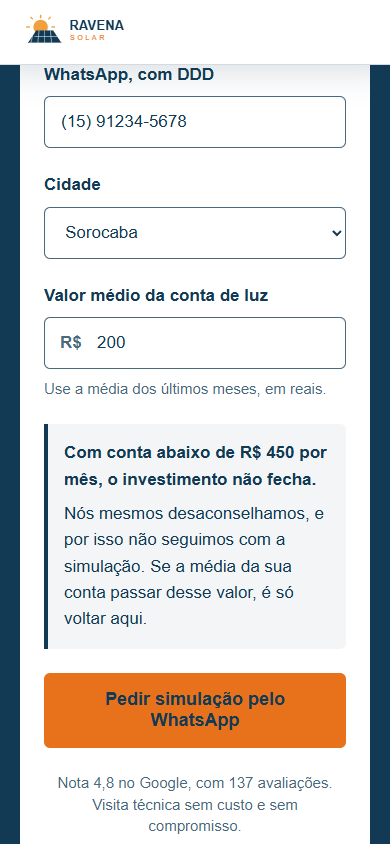
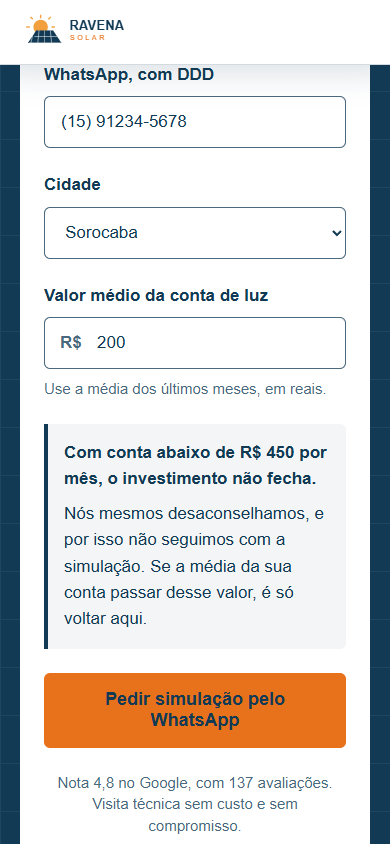
Verificação da terceira versão do acabamento
Novas conferências: proporção das barras das garantias, número do
telhado, marcas da linha do tempo, textura do painel e faixa do caso.
Capturas locais refeitas; as -no-ar ficam para depois do merge.

diff --git a/styles.css b/styles.css
@@ -243,7 +243,7 @@ p { max-width: var(--medida); }
 .secao-azul { background: var(--azul); color: var(--branco); }
 
 /* Textura do painel: a grade das células do painel da logo, só sobre azul.
-   Máscara SVG (não gradiente); a cor é sempre --branco. */
+   Desenhada por máscara SVG; a cor é sempre --branco. */
 .hero, .secao-azul { position: relative; isolation: isolate; }
 .hero::before, .secao-azul::before {
   content: "";

diff --git a/verificacao/README.md b/verificacao/README.md
@@ -28,7 +28,7 @@ Os arquivos com `-no-ar` no nome são as mesmas capturas, tiradas da página pub
 ## O que o script confere
 
 1. **Layout:** em 390px não há rolagem horizontal nem elemento passando da borda; o botão aparece na primeira tela.
-2. **Design:** as cores, os tamanhos e os cantos que o navegador renderiza são os do `DESIGN.md`; há uma família de fonte só; o laranja só aparece nos botões; nenhum texto âmbar fora de fundo azul; as barras do caso estão na proporção de R$ 118 para R$ 780; todo hex do CSS existe na `logo.svg`; não há gradiente nem cor ou fonte do site de 2021.
+2. **Design:** as cores, os tamanhos e os cantos que o navegador renderiza são os do `DESIGN.md`; há uma família de fonte só; o laranja só aparece nos botões; nenhum texto âmbar fora de fundo azul; as barras do caso estão na proporção de R$ 118 para R$ 780; as barras das garantias estão na proporção de 25, 10 e 5 anos sobre 25; o "5 anos" do telhado é azul; a etapa da CPFL tem ponto vazado e a da instalação, anel âmbar; a textura do painel é branca, com opacidade 0,06 e sem imagem de fundo; o caso ocupa a largura toda da tela; todo hex do CSS existe na `logo.svg`; não há gradiente nem cor ou fonte do site de 2021.
 3. **Mecânica:** o topo fica preso ao rolar; no celular a barra de ação aparece no meio da página e some na primeira tela e no formulário; com movimento ligado toda seção termina visível; sem JavaScript o conteúdo nasce visível e nada é enviado.
 4. **Texto:** nenhuma das palavras proibidas pelo cliente (inclusive nos avisos escondidos); todo número da página está na tabela de origem no brief, impressa no resultado.
 5. **Ação única:** todo link leva ao formulário; não existe link de WhatsApp ou telefone no HTML; o formulário não tem `action`.
